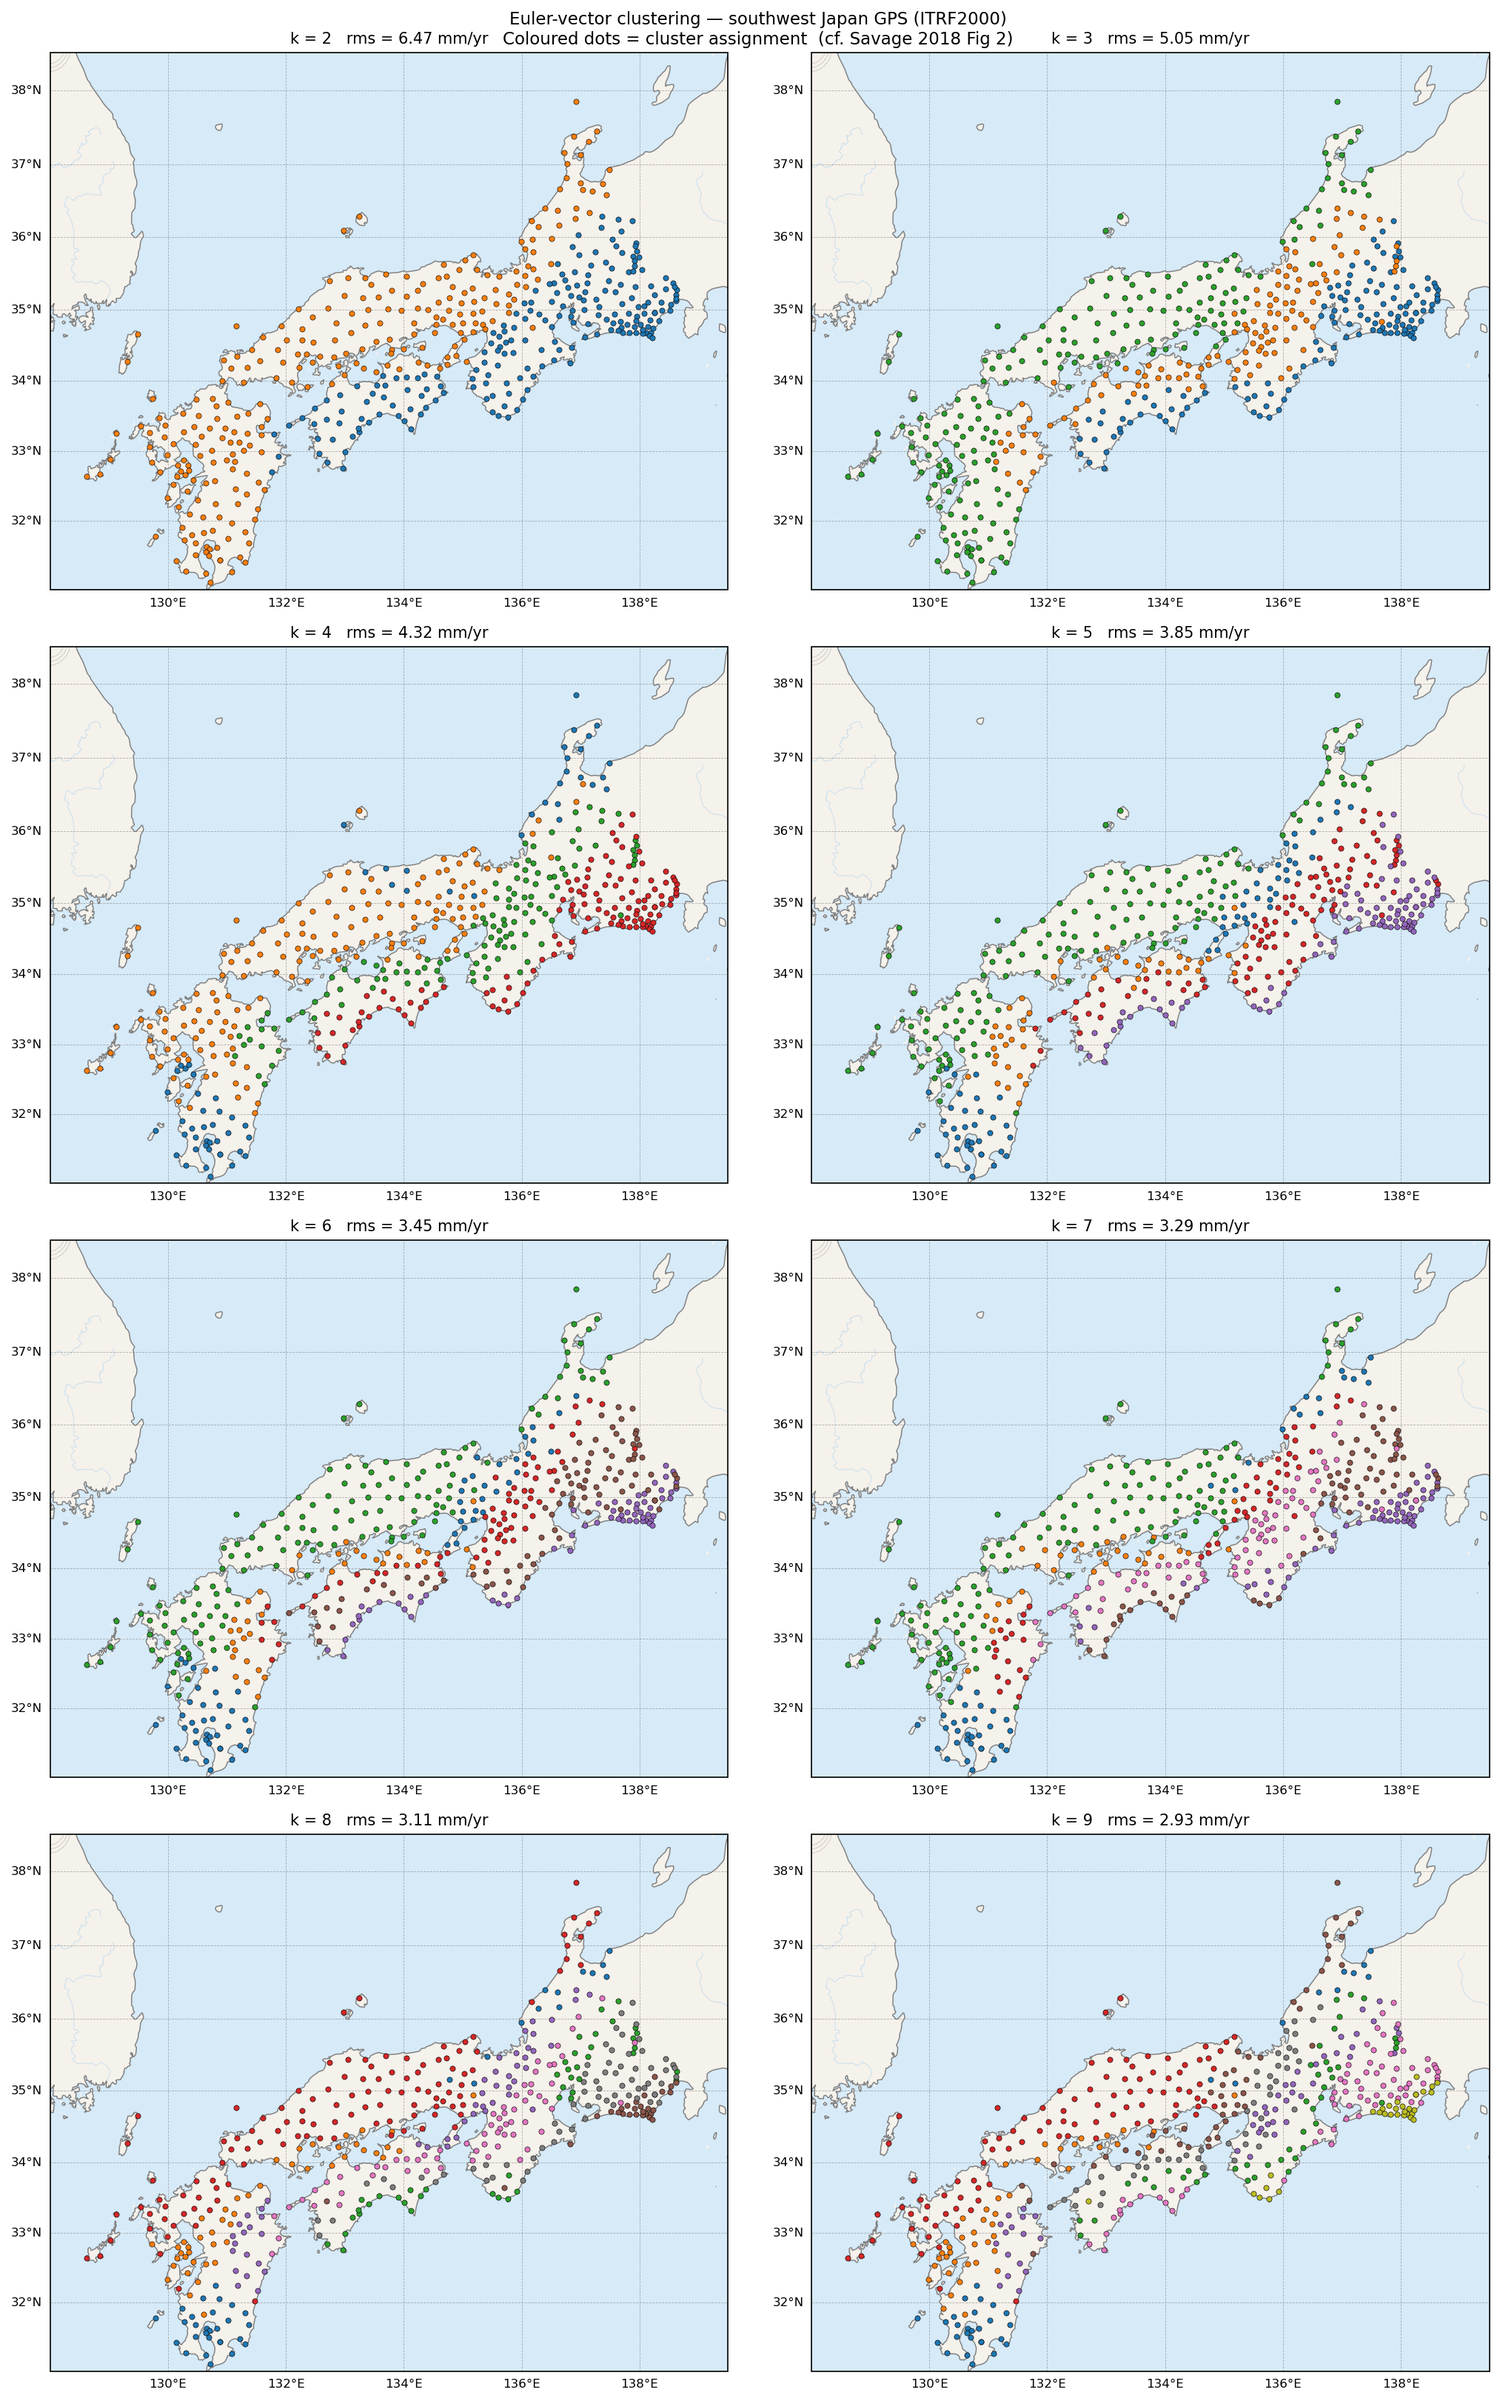
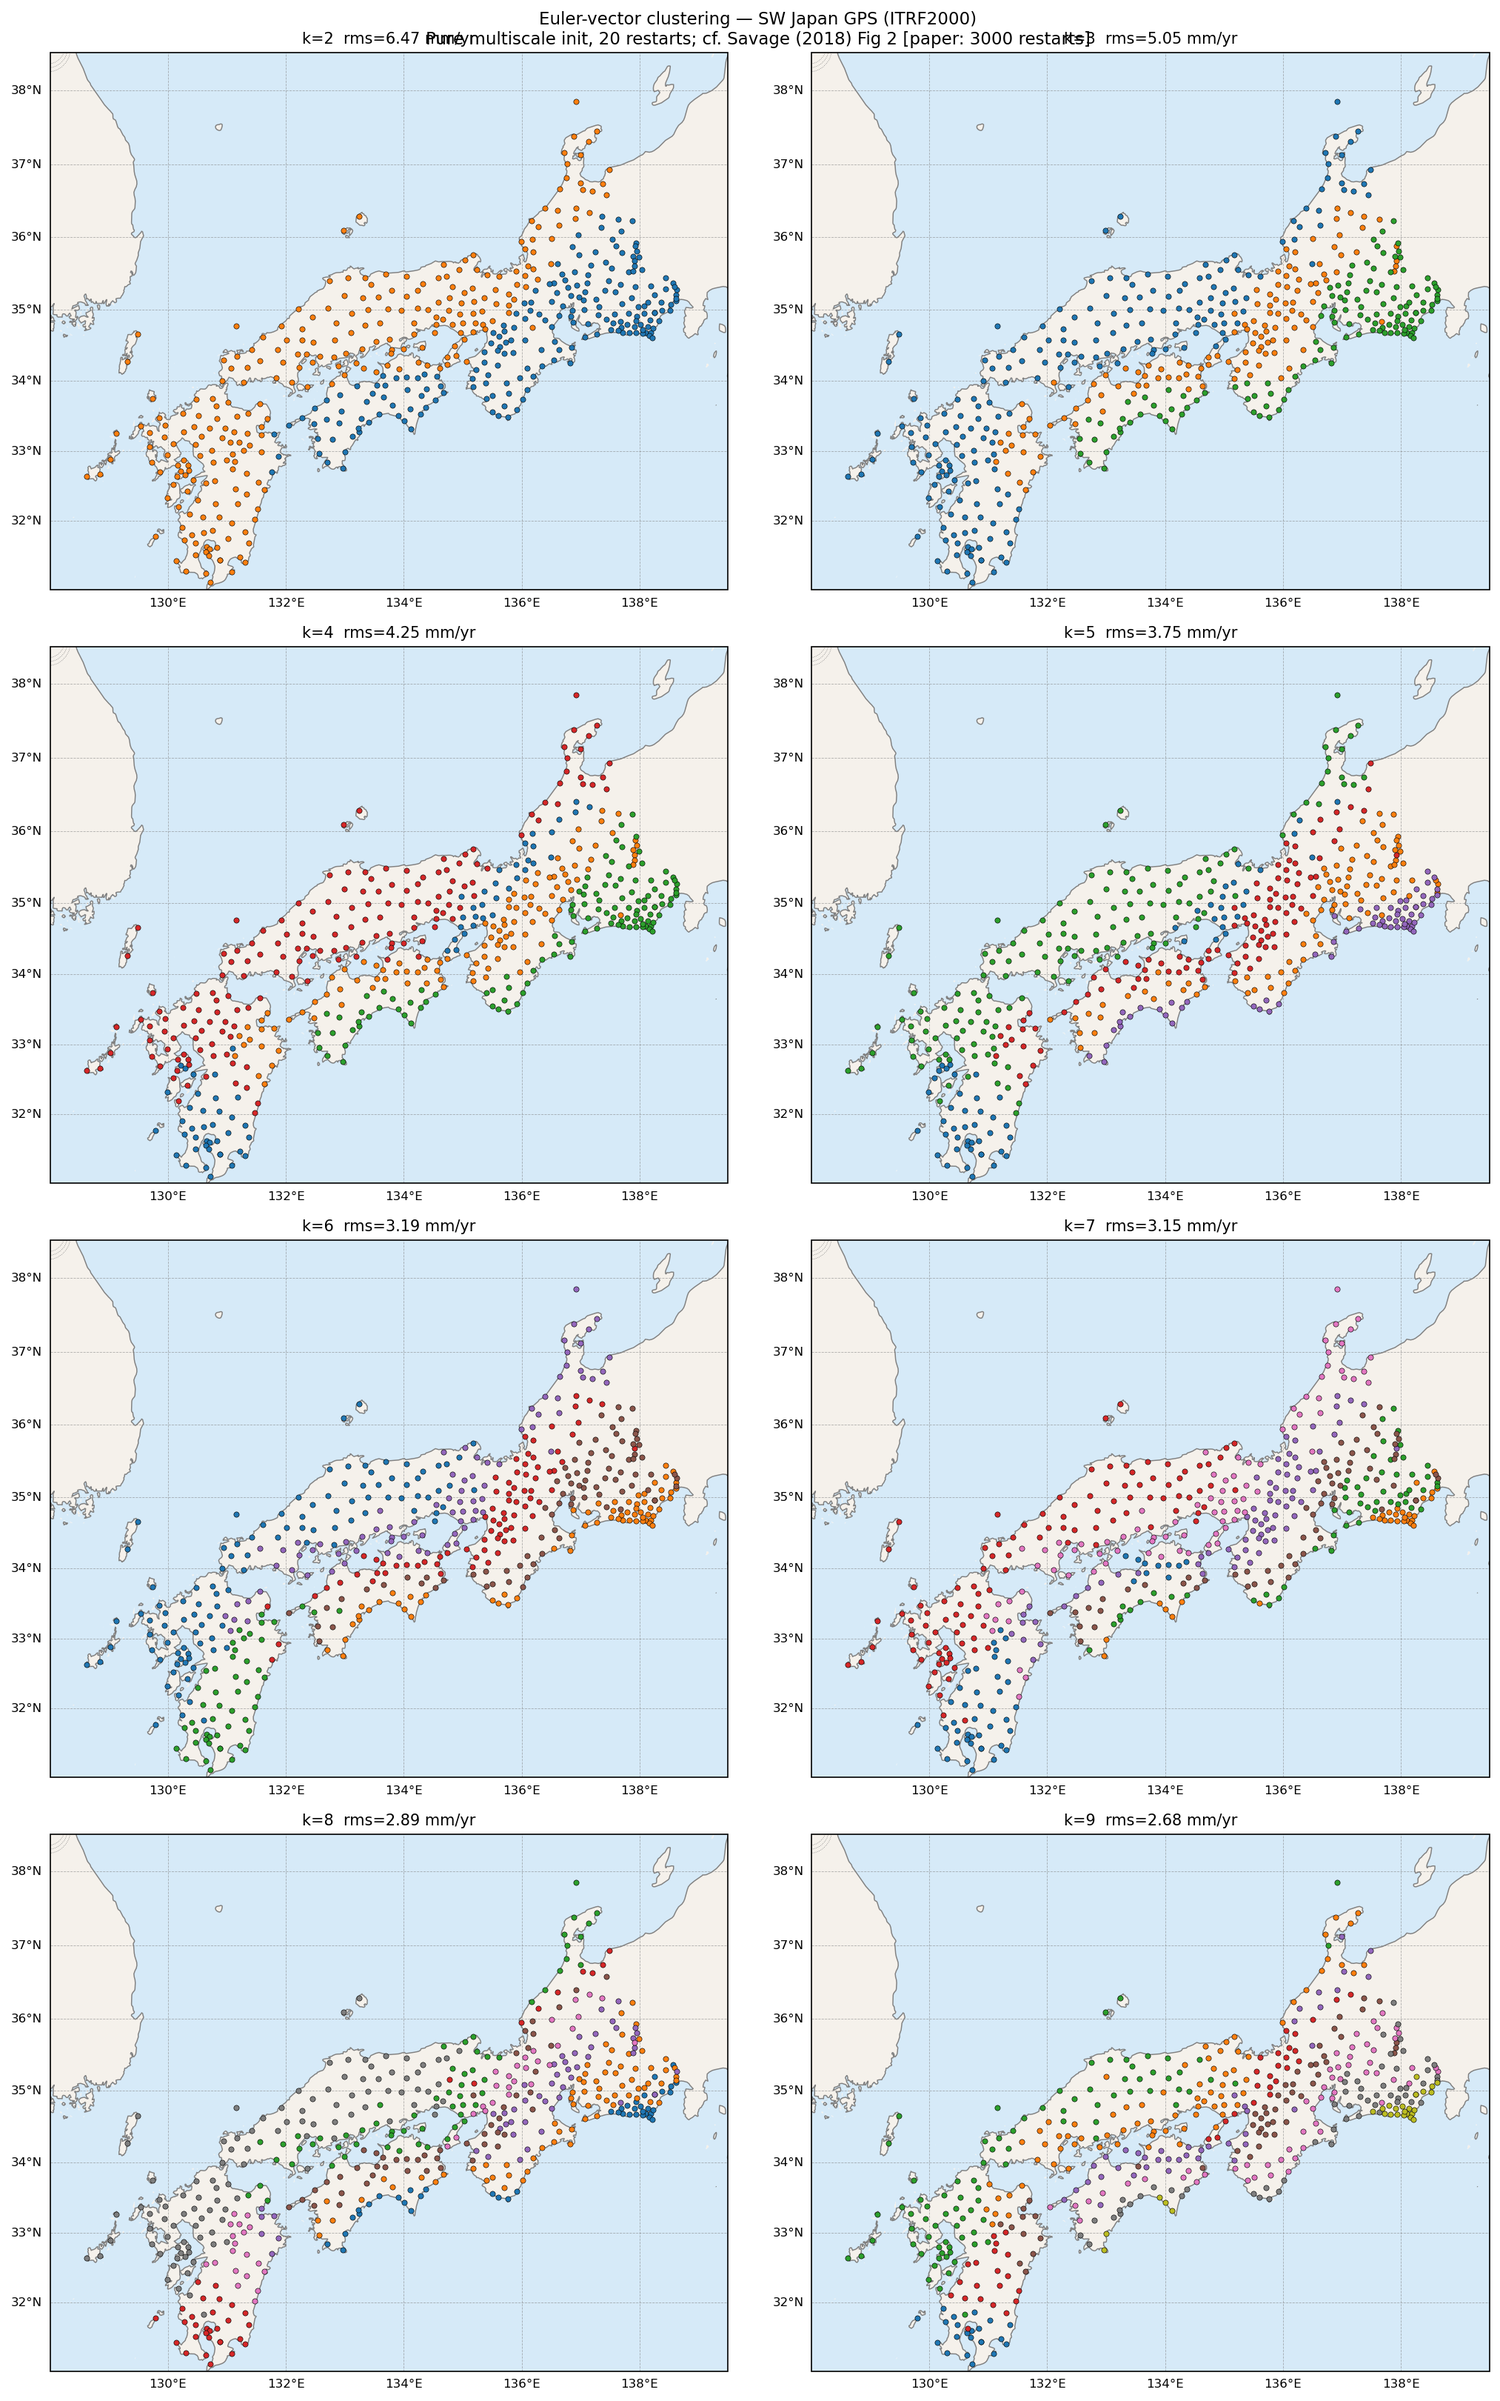
Fix GPS velocity arrows (Fig 1/5/6) and remove geographic prior from Fig 7
* _quiver and _ref_arrow: switch from scale_units="xy" to scale_units="width"
  with minlength=0, minshaft=0.5.  scale_units="xy" resolves to projected
  metres on Mercator axes; mm/yr-scale vectors fall below matplotlib's
  minlength=1 threshold and are rendered as filled circles instead of arrows.

* _ref_arrow rewritten to use quiverkey (hidden anchor quiver at 0°N/0°E,
  outside the SW Japan map extent) so the scale bar is always black and
  correctly positioned at axes fraction (0.85, 0.06).

* Fig 7: remove _geo_init_labels from cluster calls so the k=2..9 panel
  reflects the pure algorithm (multiscale HAC + random init, 20 restarts)
  rather than a priori velocity thresholds.  Caption updated to note
  differences from Savage (2018): sequential-split init, 3 000 restarts.

* Regenerate all 8 figures with the corrected quiver settings.

diff --git a/scripts/plot_japan_clusters.py b/scripts/plot_japan_clusters.py
@@ -128,16 +128,24 @@ def _basemap(ax, extent=EXTENT):
     return ax
 
 
-def _quiver(ax, stations_list, color, scale=20, **kw):
-    """scale=20 → 20 mm/yr arrow = 1° long on the map."""
+def _quiver(ax, stations_list, color, scale=200, **kw):
+    """GPS velocity arrows.
+
+    scale_units='width' avoids the Mercator-projection unit issue where
+    scale_units='xy' resolves to projected meters and collapses mm/yr-scale
+    vectors to matplotlib's minlength=1 filled-polygon substitute (circles).
+    scale=200 → 200 mm/yr spans full axes width → 20 mm/yr ≈ 10% of width.
+    """
     lons = np.array([s.position.lon for s in stations_list])
     lats = np.array([s.position.lat for s in stations_list])
     ve   = np.array([s.velocity.ve  for s in stations_list])
     vn   = np.array([s.velocity.vn  for s in stations_list])
     q = ax.quiver(lons, lats, ve, vn,
                   transform=ccrs.PlateCarree(),
-                  scale=scale, scale_units="xy",
-                  width=0.004, headwidth=5, headlength=6,
+                  scale=scale, scale_units="width",
+                  angles="uv",
+                  width=0.003, headwidth=4, headlength=5, headaxislength=4,
+                  minlength=0, minshaft=0.5,
                   color=color, alpha=0.9, zorder=3, **kw)
     return q
 
@@ -151,16 +159,24 @@ def _scatter(ax, stations_list, color, s=28):
                transform=ccrs.PlateCarree(), zorder=4)
 
 
-def _ref_arrow(ax, lon=138.5, lat=31.7, length=20, scale=20, label=True):
-    """Draw a reference scale arrow (all args wrapped as arrays for cartopy)."""
-    ax.quiver(np.array([lon]), np.array([lat]),
-              np.array([float(length)]), np.array([0.0]),
-              transform=ccrs.PlateCarree(),
-              scale=scale, scale_units="xy",
-              width=0.003, headwidth=4, headlength=5, color="k", zorder=5)
+def _ref_arrow(ax, length=20, scale=200, label=True):
+    """Add a black reference scale bar via quiverkey.
+
+    Creates a hidden quiver outside the SW Japan map extent (Indian Ocean,
+    0°N/0°E) so it is clipped and not visible, then draws the reference key
+    with quiverkey.  scale must match the _quiver scale used on this axes.
+    """
+    _q = ax.quiver(np.array([0.0]), np.array([0.0]),
+                   np.array([float(length)]), np.array([0.0]),
+                   transform=ccrs.PlateCarree(),
+                   scale=scale, scale_units="width",
+                   angles="uv",
+                   width=0.003, headwidth=4, headlength=5,
+                   color="k", zorder=-1)
     if label:
-        ax.text(lon + length / scale / 2, lat - 0.25, f"{length} mm/yr",
-                transform=ccrs.PlateCarree(), fontsize=7, ha="center")
+        ax.quiverkey(_q, X=0.85, Y=0.06, U=length,
+                     label=f"{length} mm/yr", labelpos="S",
+                     fontproperties={"size": 7})
 
 
 def _rms(clusters_list):
@@ -353,7 +369,7 @@ rms_obs_sq = []
 for c in clusters3:
     col = CMAP(c.id - 1)
     _scatter(axes[0], c.stations, color=col, s=22)
-    _quiver(axes[0], c.stations, color=col, scale=20)
+    _quiver(axes[0], c.stations, color=col)
     for s in c.stations:
         ve_pred, vn_pred = predict_velocity(s, c.euler_vector)
         res_lons.append(s.position.lon)
@@ -386,7 +402,7 @@ axes[1].quiverkey(q_res, X=0.85, Y=0.06, U=10,
                   label="10 mm/yr", labelpos="S",
                   fontproperties={"size": 7})
 
-_ref_arrow(axes[0], length=20, scale=20)
+_ref_arrow(axes[0], length=20)
 
 axes[0].set_title(f"Observed velocities  (RMS = {rms_obs:.1f} mm/yr)", fontsize=10)
 axes[1].set_title(f"Obs − Euler predicted  (RMS misfit = {rms_res:.1f} mm/yr)", fontsize=10)
@@ -408,8 +424,13 @@ axes = axes.flatten()
 
 for ax, k in zip(axes, range(2, 10)):
     _basemap(ax)
-    clusters_k = evc.cluster(stations, k=k,
-                              init_labels=_geo_init_labels(stations, k))
+    # Pure multiscale init — no a priori geographic labels injected.
+    # Savage (2018) used sequential equal-size alphabetical splits + 3,000
+    # restarts; we use HAC-seeded multiscale + 100 restarts.  For k = 3 the
+    # interseismic-loading signal causes the RMS-optimal solution to be
+    # iso-velocity bands rather than tectonic plates without the geographic
+    # prior used in Fig 5.
+    clusters_k = evc.cluster(stations, k=k)
     all_clusters_k[k] = clusters_k
     for c in clusters_k:
         col = CMAP(c.id - 1)
@@ -419,7 +440,8 @@ for ax, k in zip(axes, range(2, 10)):
     ax.set_title(f"k = {k}   rms = {rms_k:.2f} mm/yr", fontsize=10)
 
 fig.suptitle("Euler-vector clustering — southwest Japan GPS (ITRF2000)\n"
-             "Coloured dots = cluster assignment  (cf. Savage 2018 Fig 2)", fontsize=11)
+             "Pure multiscale init (100 restarts); cf. Savage (2018) Fig 2 "
+             "[paper: sequential splits, 3 000 restarts]", fontsize=11)
 fig.tight_layout()
 fig.savefig(OUT / "fig7_k2to9_clusters.png", dpi=150, bbox_inches="tight")
 plt.close(fig)
